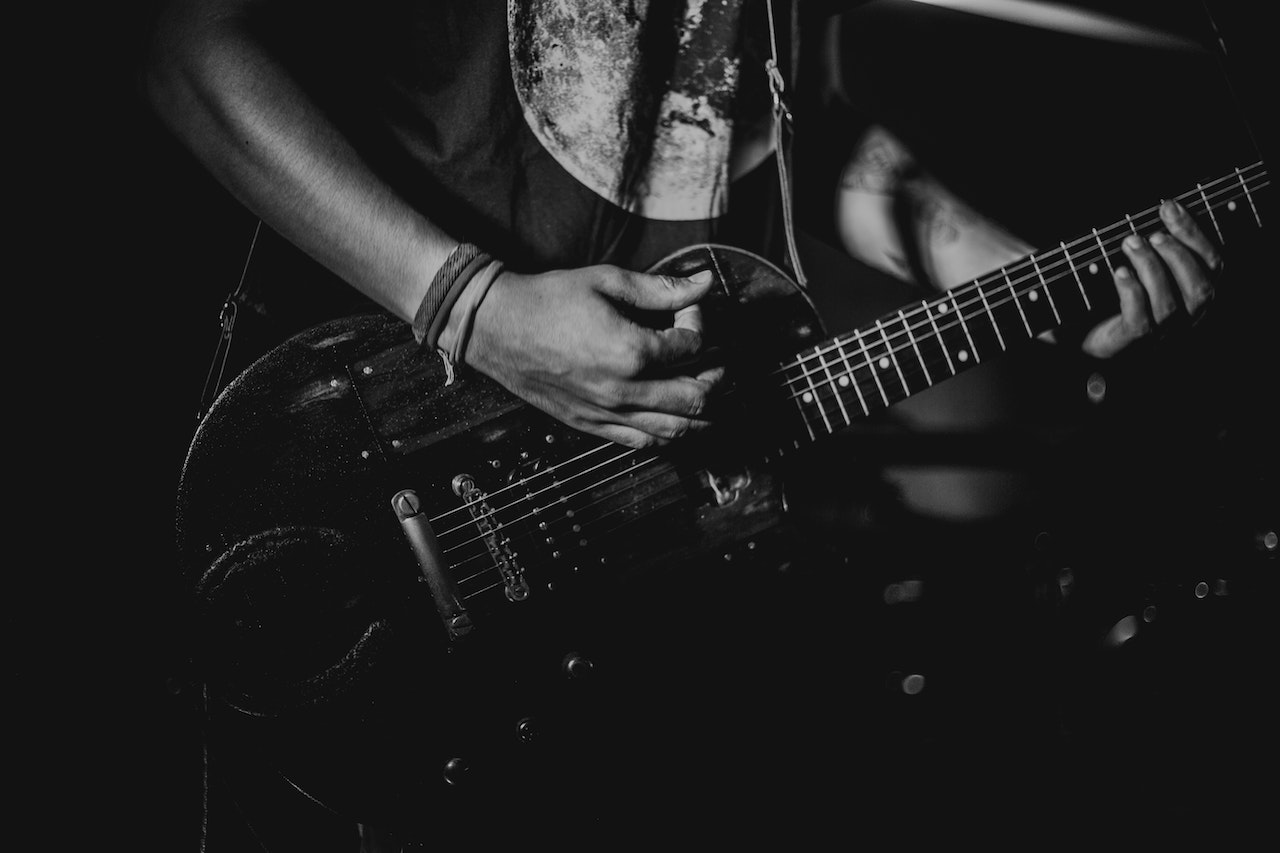
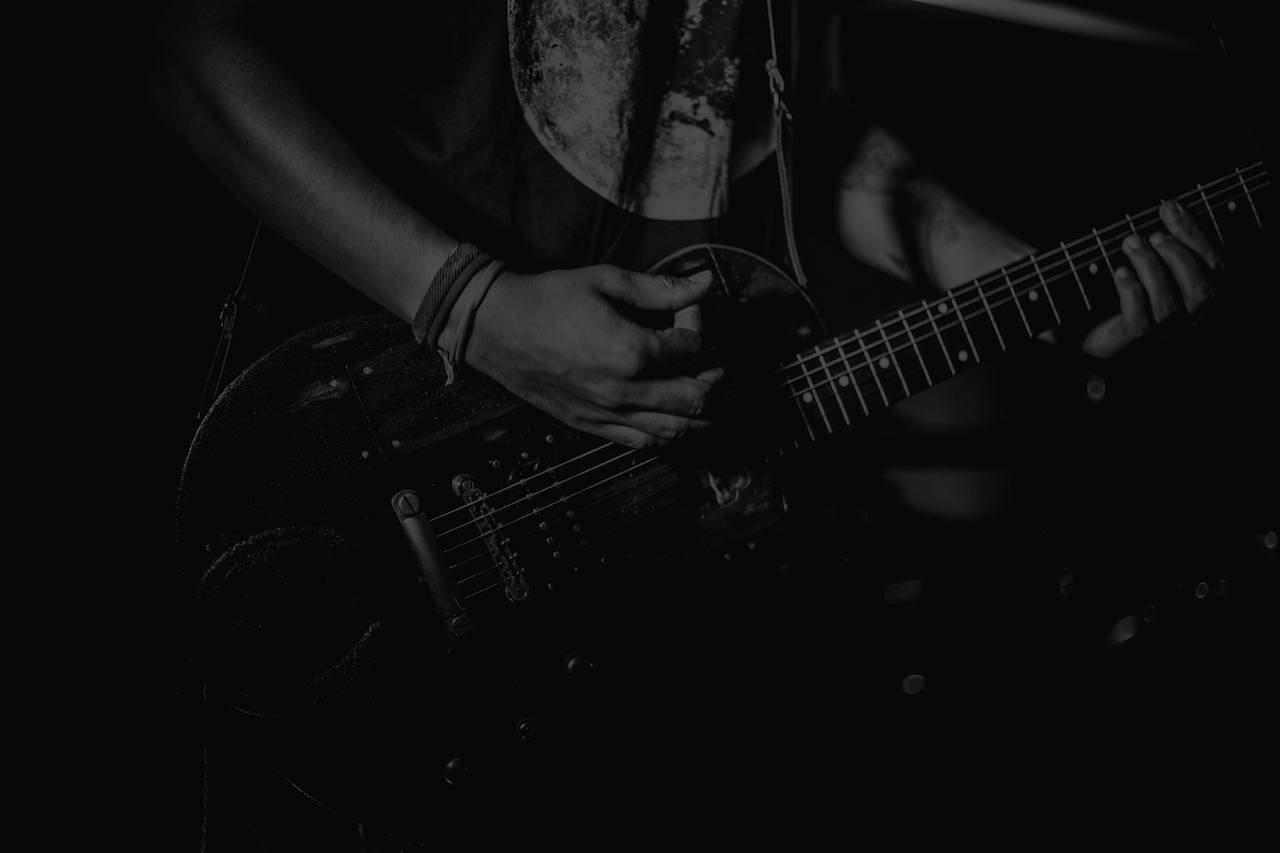
Corrigido imagem

diff --git a/home.html b/home.html
@@ -21,7 +21,7 @@ color: white;
     top: 50%;
     left: 50%;
     transform: translate(-50%, -50%);
-    background-color: rgba(0, 0, 0, 0.836);
+    
     padding: 20px;
     border-radius: 10px;
     min-width: 50%;
